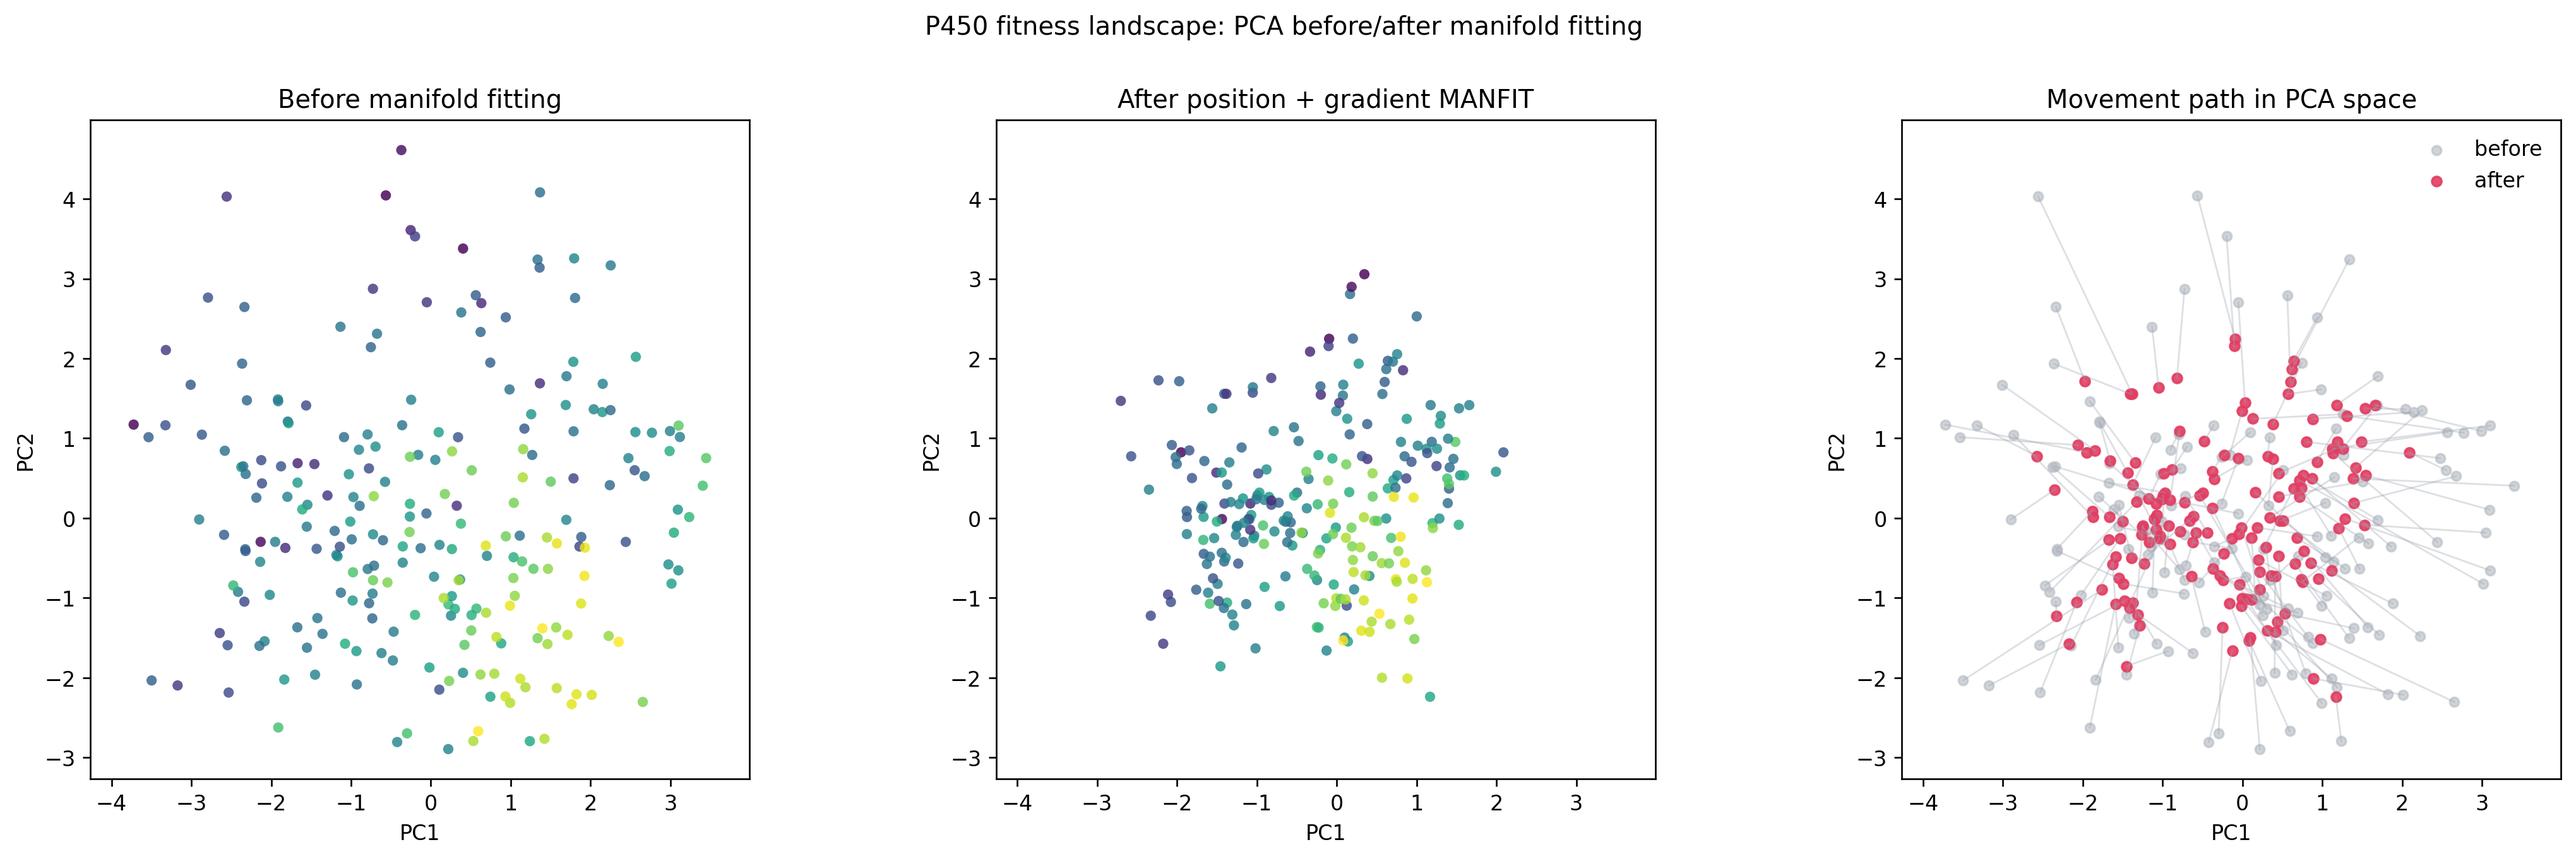
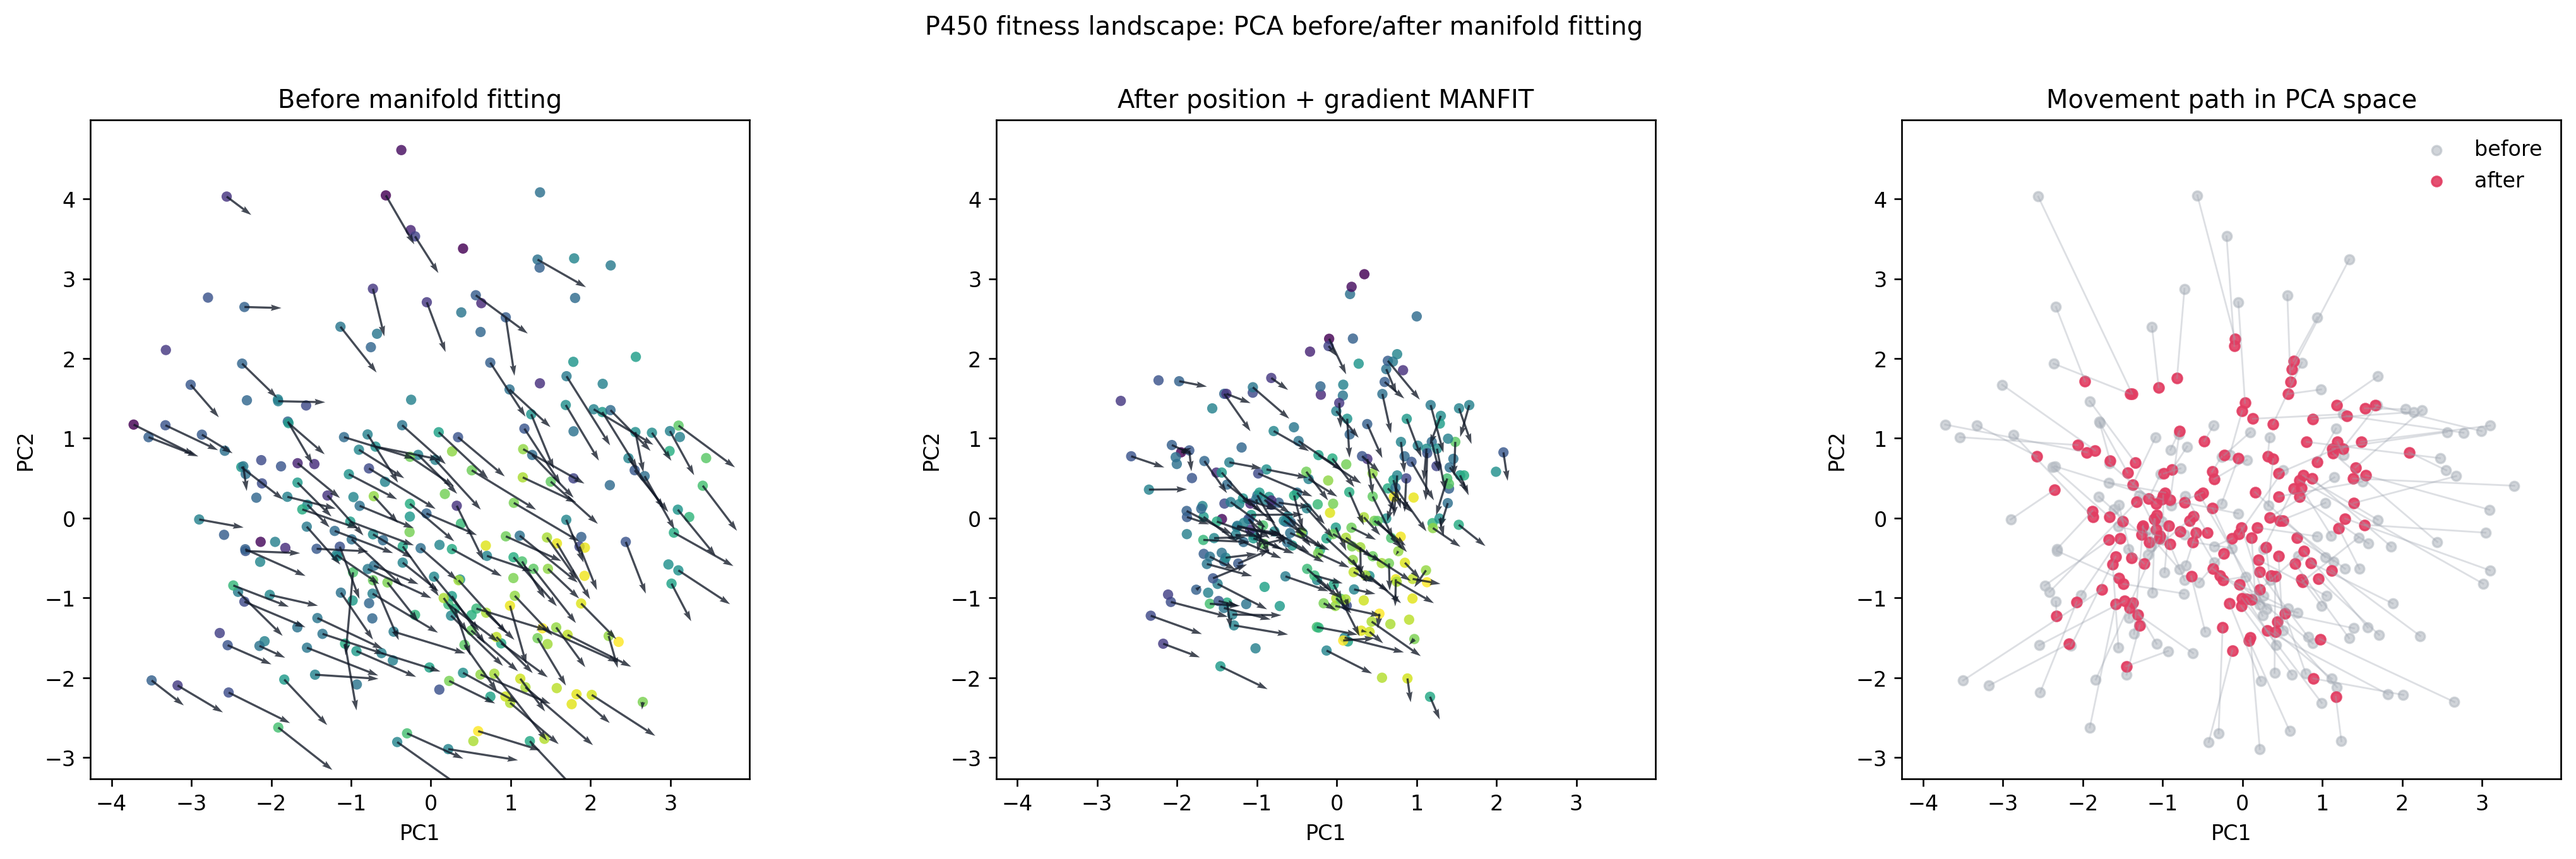
Show potential gradients in comparison report

diff --git a/reports/pca_dataset_comparison/index.html b/reports/pca_dataset_comparison/index.html
@@ -244,19 +244,19 @@
       <h2>Palantir: Entropy Potential Is Shown With the Same Three-Panel PCA Layout</h2>
       <p>
         The Palantir example now follows the RNA velocity visual structure: before fitting, after
-        fitting, and movement path in PCA space. Points are colored by Palantir fate entropy, so the
-        first two panels show the potential field directly rather than a quiver overlay.
+        fitting, and movement path in PCA space. Points are colored by Palantir fate entropy, and
+        the first two panels overlay the estimated entropy-gradient field.
       </p>
       <figure>
         <img src="assets/palantir_pca_before_after.png" alt="Palantir entropy potential PCA before and after manifold fitting with movement paths">
         <figcaption>
           Palantir bone marrow PCA comparison from
           <code>outputs/real_data_palantir/palantir_entropy_pca_three_panel_before_after.png</code>.
-          Color indicates Palantir fate entropy.
+          Color indicates Palantir fate entropy; black arrows show the estimated gradient field.
         </figcaption>
       </figure>
       <div class="dataset-note">
-        <p><strong>Interpretation.</strong> This keeps the potential field readable while showing how the fitted geometry moves cells in the same PCA display space.</p>
+        <p><strong>Interpretation.</strong> This keeps the potential field readable while showing both the fitted gradient directions and how the geometry moves cells in the same PCA display space.</p>
       </div>
     </section>
 
@@ -265,18 +265,19 @@
       <p>
         The protein fitness landscape example uses P450 measured T50 as the scalar response. The report
         view now compares the original PCA positions against the position-plus-gradient MANFIT result,
-        then shows the before-to-after movement path in the same PCA basis.
+        overlays the estimated fitness-gradient field, then shows the before-to-after movement path
+        in the same PCA basis.
       </p>
       <figure>
         <img src="assets/fitness_landscape_pca_before_after.png" alt="Protein fitness landscape PCA before and after position plus gradient MANFIT with movement paths">
         <figcaption>
           Protein fitness landscape PCA comparison from
           <code>outputs/manual-potential-gradient/fitness_landscape_pca_three_panel_before_after.png</code>.
-          Color indicates measured T50.
+          Color indicates measured T50; black arrows show the estimated scalar-gradient field.
         </figcaption>
       </figure>
       <div class="dataset-note">
-        <p><strong>Interpretation.</strong> This now matches the Palantir scalar-potential layout: scalar values in the before/after panels and explicit movement paths in PCA space.</p>
+        <p><strong>Interpretation.</strong> This now matches the Palantir scalar-potential layout: scalar values and gradient fields in the before/after panels, plus explicit movement paths in PCA space.</p>
       </div>
     </section>
 
@@ -307,35 +308,7 @@
       <pre>Selected visual contract:
 1. Use PCA coordinates for every dataset.
 2. Show before and after manifold fitting side by side.
-3. For scalar-potential examples, show color by potential or fitness plus movement paths.</pre>
-    </section>
-
-    <section data-contract-section="limitations-uncertainty-and-robustness-checks">
-      <h2>Limitations and Uncertainty</h2>
-      <ul>
-        <li>The four examples do not share one metric, noise model, or validation target yet.</li>
-        <li>PCA views are useful for inspection, but they can hide changes in higher dimensions.</li>
-        <li>Palantir and protein fitness are scalar-potential examples, while cell cycle and pancreas are velocity-field examples.</li>
-        <li>The fitness landscape uses genotype one-hot features projected to PCA, not a learned protein latent coordinate unless that file is added later.</li>
-      </ul>
-    </section>
-
-    <section data-contract-section="recommended-next-steps">
-      <h2>Recommended Next Steps</h2>
-      <p>
-        Treat this report as the comparison board for polishing the algorithm. The next useful step is
-        to add one small metrics table beside these visuals: position movement size, velocity or
-        gradient alignment change, and a neighborhood preservation statistic for each dataset.
-      </p>
-    </section>
-
-    <section data-contract-section="further-questions">
-      <h2>Further Questions</h2>
-      <ul>
-        <li>Should Palantir and fitness landscape get the exact same scalar-potential fitting script before we compare them?</li>
-        <li>Do we want each dataset to report the same three scalar diagnostics in addition to the PCA figure?</li>
-        <li>Should the website expose these real-data examples next to the synthetic simulations?</li>
-      </ul>
+3. For scalar-potential examples, show color by potential or fitness, overlay the gradient field, and include movement paths.</pre>
     </section>
   </main>
 </body>

diff --git a/scripts/palantir_gradient_field_before_after.py b/scripts/palantir_gradient_field_before_after.py
@@ -112,6 +112,18 @@ def normalize_vectors(vectors: np.ndarray, eps: float = 1e-12) -> tuple[np.ndarr
     return vectors / (norms[:, None] + eps), norms
 
 
+def scale_vectors_for_display(Z: np.ndarray, V: np.ndarray, arrow_frac: float = 0.052) -> np.ndarray:
+    """Scale vectors to a stable visual length in a PCA panel."""
+
+    span = max(np.ptp(Z[:, 0]), np.ptp(Z[:, 1]), np.finfo(float).eps)
+    norms = np.linalg.norm(V, axis=1)
+    nonzero = norms[norms > np.finfo(float).eps]
+    if nonzero.size == 0:
+        return V
+    robust_norm = np.percentile(nonzero, 95)
+    return V * (arrow_frac * span / robust_norm)
+
+
 def plot_gradient_panel(
     X_raw_display: np.ndarray,
     X_fit_display: np.ndarray,
@@ -183,12 +195,18 @@ def plot_potential_movement_panel(
     X_fit_display: np.ndarray,
     entropy: np.ndarray,
     movement_indices: np.ndarray,
+    raw_cell_gradient: np.ndarray,
+    fitted_cell_gradient: np.ndarray,
     output_path: Path,
 ) -> None:
-    """Write a three-panel PCA potential comparison with movement paths."""
+    """Write a three-panel PCA potential comparison with gradients and movement paths."""
 
     vmax = np.nanpercentile(entropy, 99)
     vmin = np.nanpercentile(entropy, 1)
+    gradient_step = max(1, int(np.ceil(movement_indices.shape[0] / 320)))
+    gradient_indices = movement_indices[::gradient_step]
+    raw_gradient_plot = scale_vectors_for_display(X_raw_display, raw_cell_gradient)
+    fitted_gradient_plot = scale_vectors_for_display(X_fit_display, fitted_cell_gradient)
     fig, axes = plt.subplots(1, 3, figsize=(18.2, 5.8), constrained_layout=False)
 
     axes[0].scatter(
@@ -202,6 +220,18 @@ def plot_potential_movement_panel(
         vmin=vmin,
         vmax=vmax,
     )
+    axes[0].quiver(
+        X_raw_display[gradient_indices, 0],
+        X_raw_display[gradient_indices, 1],
+        raw_gradient_plot[gradient_indices, 0],
+        raw_gradient_plot[gradient_indices, 1],
+        angles="xy",
+        scale_units="xy",
+        scale=0.55,
+        color="#111827",
+        width=0.0028,
+        alpha=0.78,
+    )
     axes[0].set_title("Before manifold fitting")
 
     axes[1].scatter(
@@ -214,6 +244,18 @@ def plot_potential_movement_panel(
         cmap="viridis",
         vmin=vmin,
         vmax=vmax,
+    )
+    axes[1].quiver(
+        X_fit_display[gradient_indices, 0],
+        X_fit_display[gradient_indices, 1],
+        fitted_gradient_plot[gradient_indices, 0],
+        fitted_gradient_plot[gradient_indices, 1],
+        angles="xy",
+        scale_units="xy",
+        scale=0.55,
+        color="#111827",
+        width=0.0028,
+        alpha=0.78,
     )
     axes[1].set_title("After manifold fitting")
 
@@ -418,6 +460,8 @@ def main() -> None:
         fitted_display,
         entropy,
         arrow_indices,
+        raw_cell_gradient[:, :2],
+        fitted_cell_gradient[:, :2],
         movement_panel_path,
     )
 

diff --git a/scripts/fitness_landscape_pca_report_panels.py b/scripts/fitness_landscape_pca_report_panels.py
@@ -151,15 +151,31 @@ def set_shared_limits(axes: np.ndarray, *arrays: np.ndarray) -> None:
         ax.set_ylabel("PC2")
 
 
+def scale_vectors_for_display(Z: np.ndarray, V: np.ndarray, arrow_frac: float = 0.07) -> np.ndarray:
+    """Scale projected gradient vectors to a readable visual length."""
+
+    span = max(np.ptp(Z[:, 0]), np.ptp(Z[:, 1]), np.finfo(float).eps)
+    norms = np.linalg.norm(V, axis=1)
+    nonzero = norms[norms > np.finfo(float).eps]
+    if nonzero.size == 0:
+        return V
+    robust_norm = np.percentile(nonzero, 95)
+    return V * (arrow_frac * span / robust_norm)
+
+
 def plot_three_panel(
     Z_before: np.ndarray,
     Z_after: np.ndarray,
+    V_before: np.ndarray,
+    V_after: np.ndarray,
     fitness: np.ndarray,
     path_indices: np.ndarray,
     output_path: Path,
 ) -> None:
     vmax = np.nanpercentile(fitness, 99)
     vmin = np.nanpercentile(fitness, 1)
+    V_before_plot = scale_vectors_for_display(Z_before, V_before)
+    V_after_plot = scale_vectors_for_display(Z_after, V_after)
     fig, axes = plt.subplots(1, 3, figsize=(18.2, 5.8), constrained_layout=False)
 
     axes[0].scatter(
@@ -173,6 +189,18 @@ def plot_three_panel(
         alpha=0.82,
         linewidths=0,
     )
+    axes[0].quiver(
+        Z_before[path_indices, 0],
+        Z_before[path_indices, 1],
+        V_before_plot[path_indices, 0],
+        V_before_plot[path_indices, 1],
+        angles="xy",
+        scale_units="xy",
+        scale=0.55,
+        color="#111827",
+        width=0.0032,
+        alpha=0.78,
+    )
     axes[0].set_title("Before manifold fitting")
 
     axes[1].scatter(
@@ -185,6 +213,18 @@ def plot_three_panel(
         s=24,
         alpha=0.82,
         linewidths=0,
+    )
+    axes[1].quiver(
+        Z_after[path_indices, 0],
+        Z_after[path_indices, 1],
+        V_after_plot[path_indices, 0],
+        V_after_plot[path_indices, 1],
+        angles="xy",
+        scale_units="xy",
+        scale=0.55,
+        color="#111827",
+        width=0.0032,
+        alpha=0.78,
     )
     axes[1].set_title("After position + gradient MANFIT")
 
@@ -249,10 +289,12 @@ def main() -> None:
     pca = PCA(n_components=2, random_state=args.random_state).fit(X)
     Z_before = pca.transform(X)
     Z_after = pca.transform(fit["position"])
+    V_before = gradient @ pca.components_.T
+    V_after = fit["gradient"] @ pca.components_.T
     path_indices = choose_path_indices(X.shape[0], args.max_paths, args.random_state)
 
     output_path = args.output_dir / "fitness_landscape_pca_three_panel_before_after.png"
-    plot_three_panel(Z_before, Z_after, t50, path_indices, output_path)
+    plot_three_panel(Z_before, Z_after, V_before, V_after, t50, path_indices, output_path)
     print(output_path)
 
 
